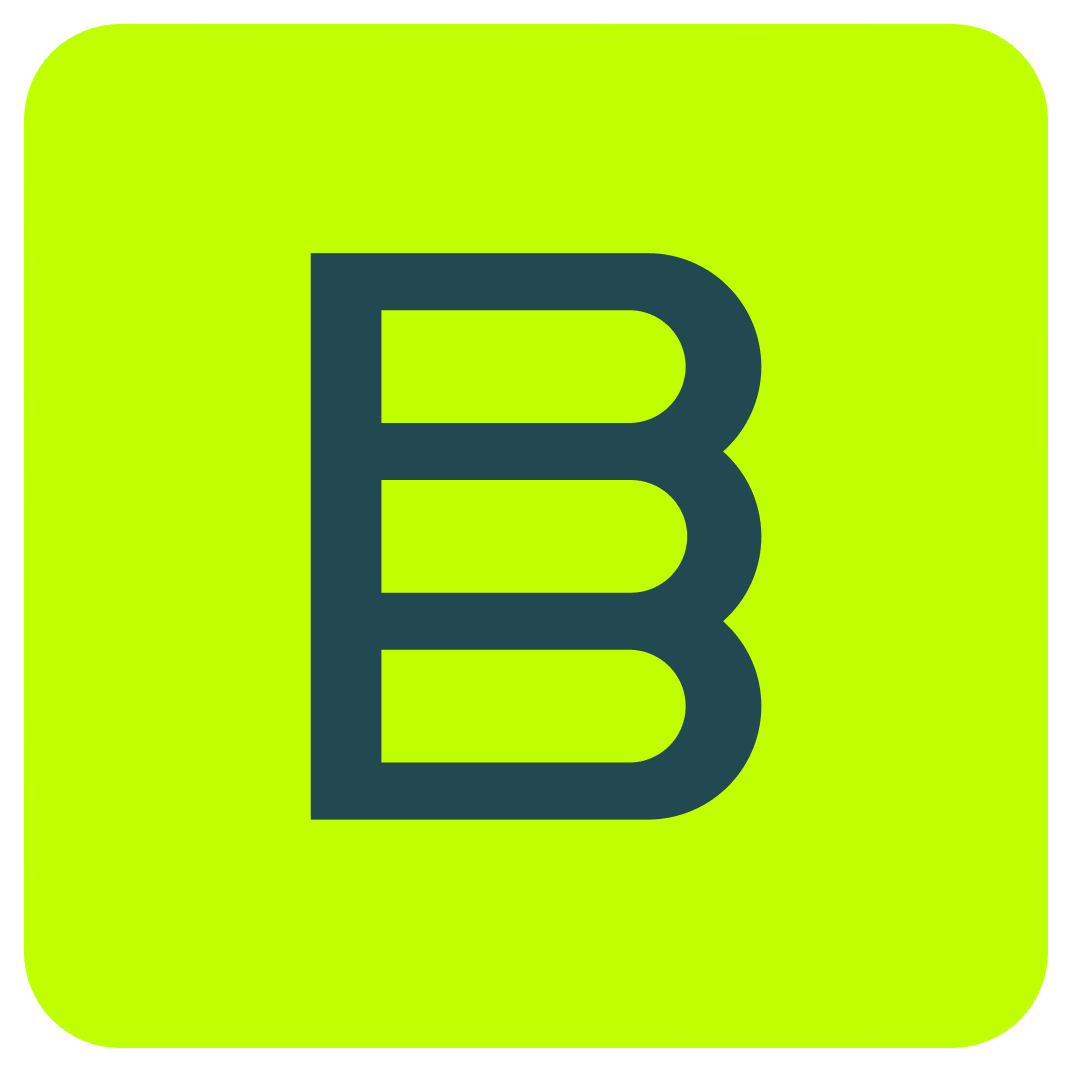
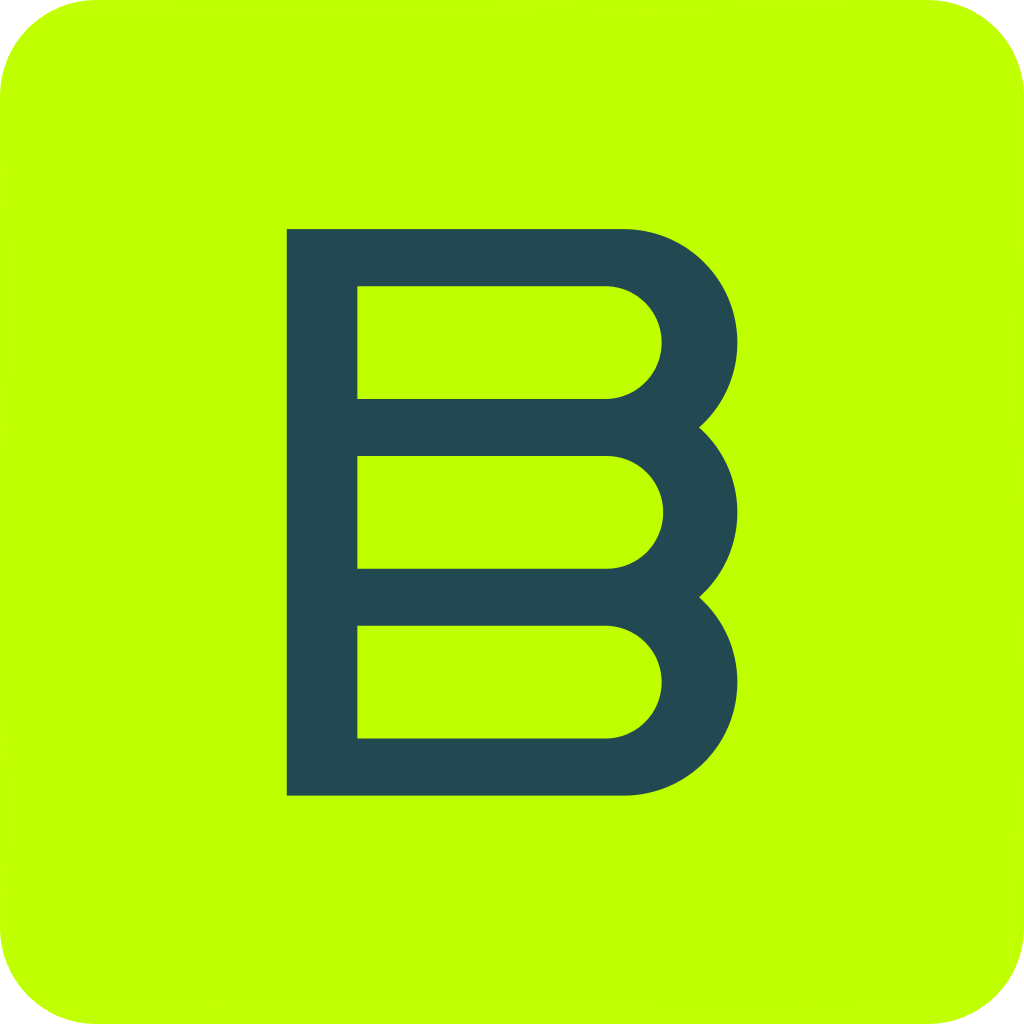
safari and ios updates

diff --git a/packages/browser-wallet-base/scripts/generate-icons.js b/packages/browser-wallet-base/scripts/generate-icons.js
@@ -12,7 +12,7 @@ if (!['macos', 'ios', 'safari', 'chrome', 'firefox'].includes(platform)) {
 }
 
 // Load the input image
-const inputImagePath = ['macos', 'ios', 'safari', 'chrome'].includes(platform) ? 'src/app-resources/icon_rounded.png' : 'src/app-resources/icon.png';
+const inputImagePath = ['macos', 'safari', 'chrome'].includes(platform) ? 'src/app-resources/icon_rounded.png' : 'src/app-resources/icon_normal.png';
 
 // Create output directory if it doesn't exist
 let outputDirectory =  `../../build/platforms/${platform}/icons`;
